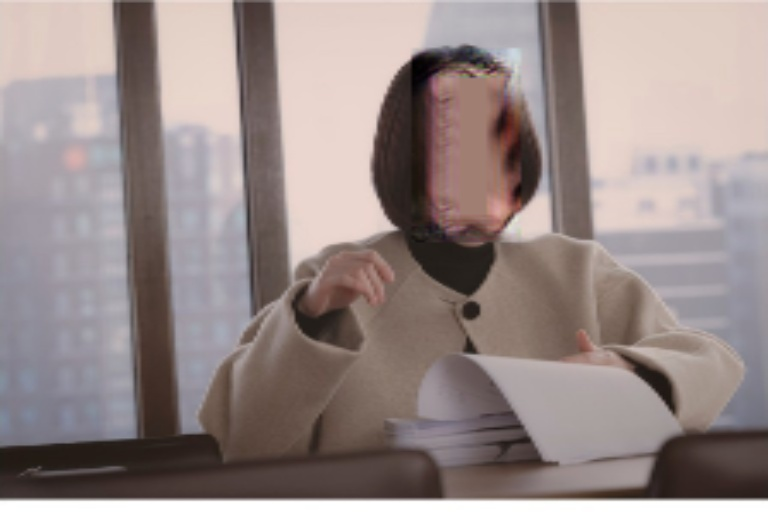
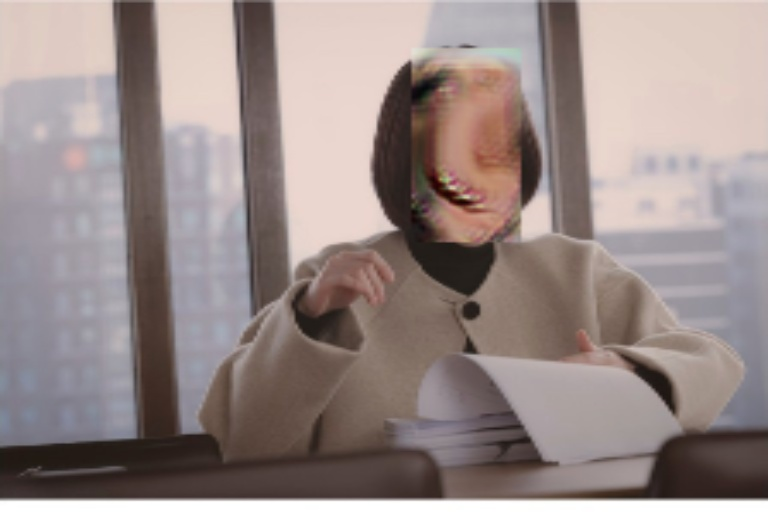
FEAT: update Generator with residual block

Changed region(s): [[0.5312, 0.0938, 0.6875, 0.5]]

diff --git a/face_blur_cycleGAN/face_blur_GAN_func_single.py b/face_blur_cycleGAN/face_blur_GAN_func_single.py
@@ -75,7 +75,11 @@ def apply_blackbox(img, pos):
 def face_blur_GAN_single(img, save_path=None, G_model_path='./weights/G_100_no.pth', Y_model_path='./weights/face_l.pt', transform=None,
                          img_size=640, conf_thres=0.5, iou_thres=0.5, device='0'):                           
     
-    # image: dtype is np.array            
+    # image: dtype is np.array
+    # weights: no_residual block G_model_path='./weights/G_100_no.pth'
+    #             -> G = GeneratorResNet_no_residual_block(3)
+    #          exist residual block G_model_path='./weights/G_100.pth'
+    #             -> G = GeneratorResNet(3, 9)
 
     # Load detector model
     device = select_device(device)
@@ -127,12 +131,19 @@ def face_blur_GAN_single(img, save_path=None, G_model_path='./weights/G_100_no.p
     bboxes = torch.Tensor(bboxes[0])
     bboxes = bboxes.unsqueeze(0)
     
-    # Load Generator model
+    # Load Generator model - no residual block, G_100_no.pth
     G = GeneratorResNet_no_residual_block(3)
     G = Wrapper(G)
     G = nn.DataParallel(G.cuda())
     G.load_state_dict(torch.load(G_model_path))
     G.eval()
+    
+    # exist residual block, G_100.pth
+#     G = GeneratorResNet(3, 9)
+#     G = Wrapper(G)
+#     G = nn.DataParallel(G.cuda())
+#     G.load_state_dict(torch.load(G_model_path))
+#     G.eval()
     
     generated_img = G(blur, image, bboxes)
     generated_img = make_grid(generated_img, nrow=5, normalize=True)
@@ -149,4 +160,4 @@ def face_blur_GAN_single(img, save_path=None, G_model_path='./weights/G_100_no.p
 
 # +
 #test
-# blur_img = face_blur_GAN_single(test_img, save_path='./data/result/blur_face1.jpg')
+# blur_img = face_blur_GAN_single(test_img, save_path='./data/result/blur_face2_no.jpg')
